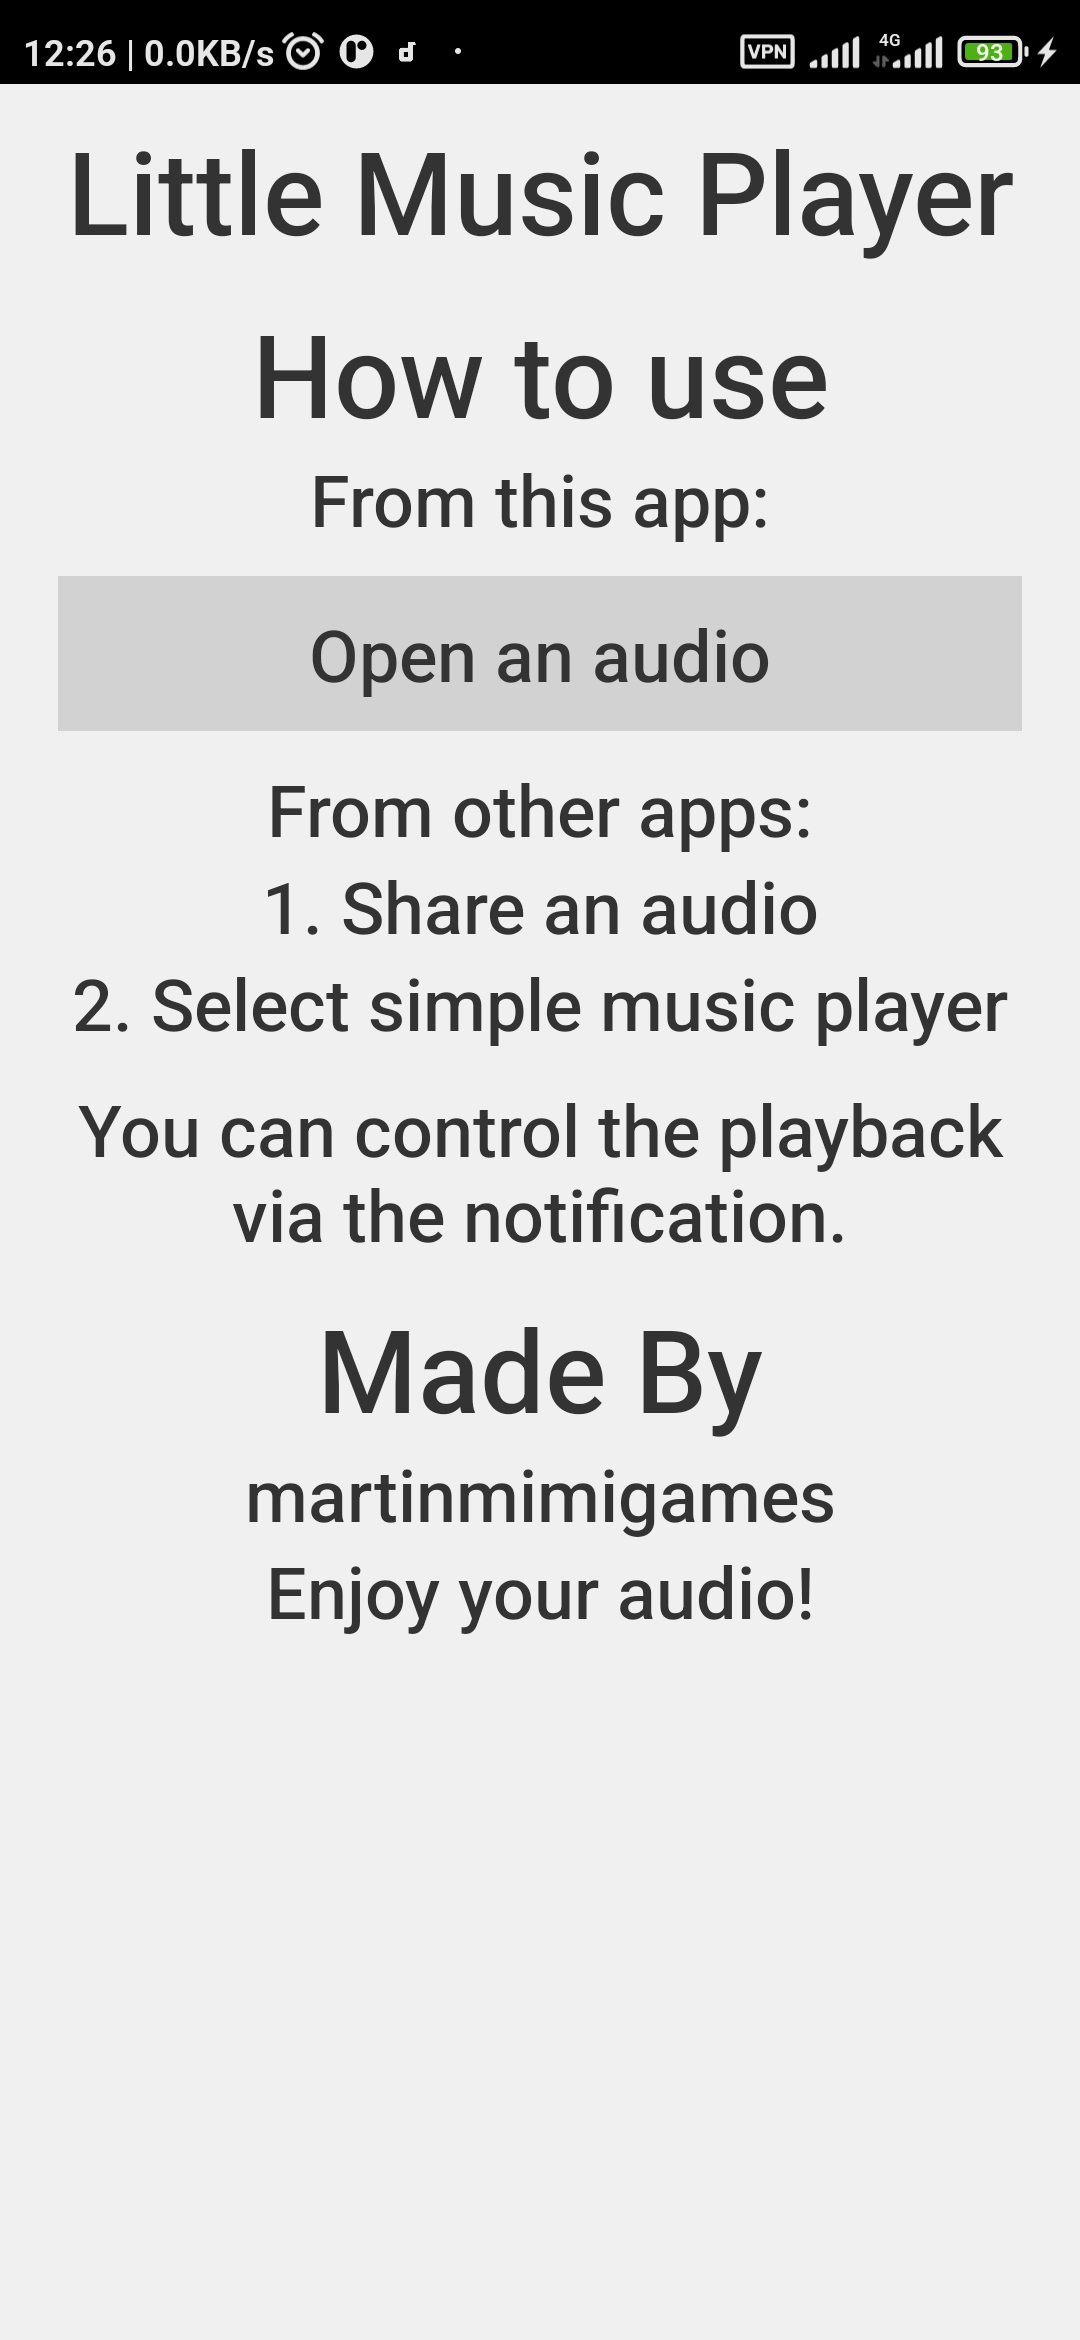
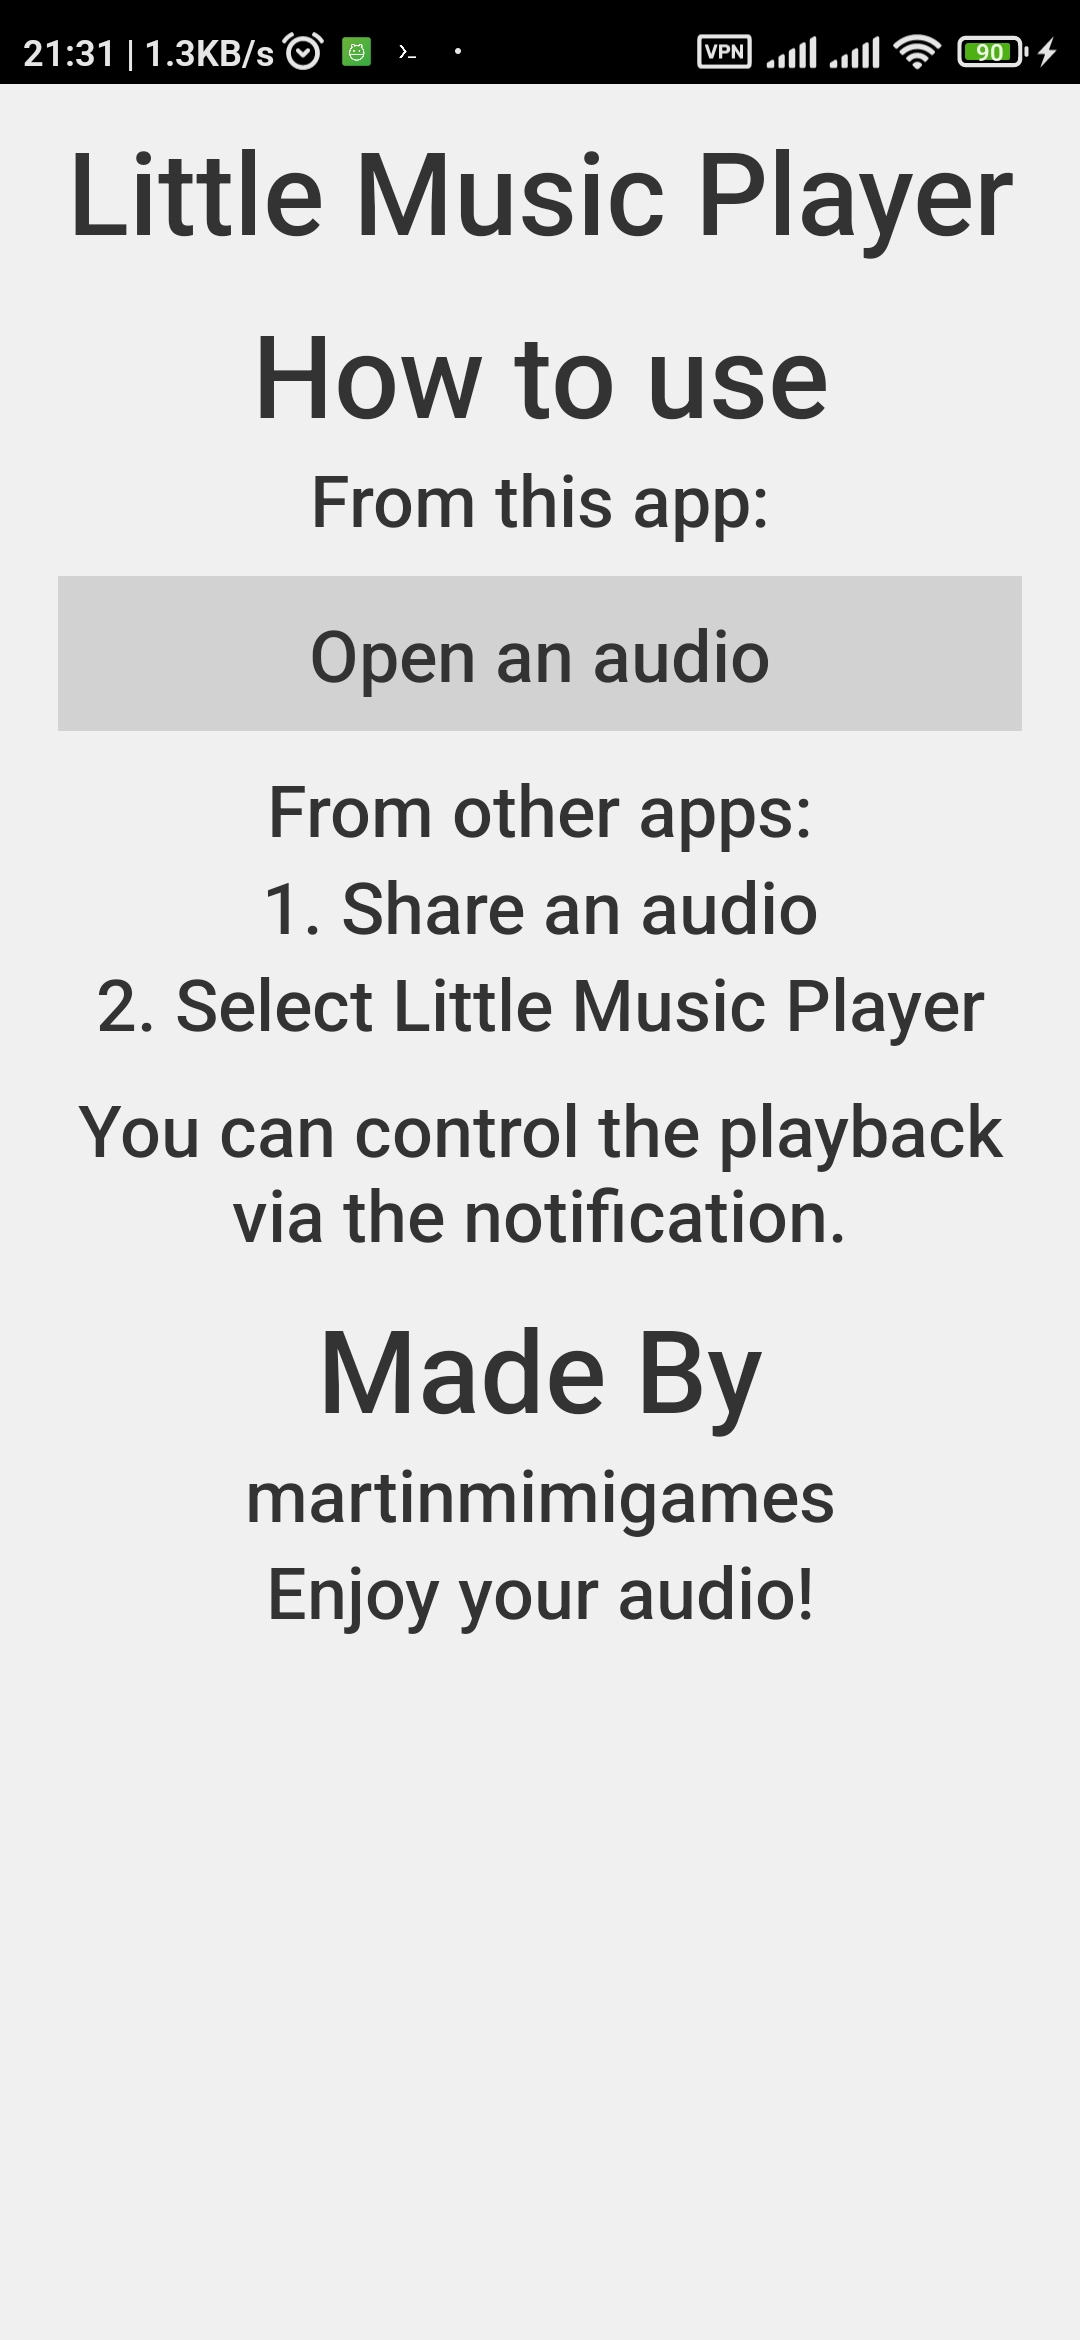
add little music player

diff --git a/projects/tiny-music-player/index.html b/projects/tiny-music-player/index.html
@@ -1,0 +1,77 @@
+<!DOCTYPE html>
+<html lang="en">
+
+<head>
+  <meta charset="UTF-8">
+  <meta name="viewport" content="width=device-width, initial-scale=1.0">
+  <link rel="canonical" href="https://martinmimigames.github.io/projects/tiny-music-player/index.html" />
+  <meta name="description"
+    content="Little Music Player - mini, compatible & plays audio,  a product of martinmimigames.">
+  <link rel="shortcut icon" href="/res/icon/website/tiny-music-player.ico">
+  <link rel="stylesheet" href="/res/css/default.css">
+  <link rel="stylesheet" href="/res/css/img.css">
+  <title>Tiny Music Player - mini, compatible & plays audio</title>
+</head>
+
+<body>
+  <header>
+    <h1>Tiny Music Player</h1>
+  </header>
+
+  <p>
+    <a class="img" href="https://github.com/martinmimigames/tiny-music-player/blob/main/LICENSE.md">
+      <img src="https://img.shields.io/github/license/martinmimigames/tiny-music-player?style=flat-square"
+        alt="Now under GPL-3.0-only License">
+    </a>
+  </p>
+  <p>
+    A mini, simple, yet compatible notification based audio player.
+  </p>
+  <p>
+    Plays audios and videos, like how you expected to.
+  </p>
+  <p>
+    Designed in hope for compatibility with different android versions.
+  </p>
+  <p>
+    For Android 13+, notification permission needs to be granted to work properly.
+  </p>
+  <p>
+    A tinier branch of <a href="/projects/little-music-player/index.html">Little Music Player</a>, with only basic functionality to reduce size.
+  </p>
+  <p>
+    Source code at <a href="https://github.com/martinmimigames/tiny-music-player">Github</a>.
+  </p>
+  <p>
+    Newest version: v1.0 (Updated on 10/12/2022)
+  </p>
+  <p>
+    Update Log:
+  </p>
+  <p>
+    - 1st release
+  </p>
+  <p>
+    You can download from the following ways:
+  </p>
+  <p>
+  <p>
+    <a href="https://github.com/martinmimigames/tiny-music-player/releases" rel="nofollow">Get it on Github</a>
+  </p>
+  <p>
+    <a href="downloads/tiny music player(1.0).apk" rel="nofollow">Get it here (apk v1.0)</a>
+  </p>
+  <p>
+    <a href="/projects/mggames-downloader/index.html">Get it on MGGames downloader</a>
+  </p>
+  <p>
+    Sorry if the above methods don't suit you.
+  </p>
+
+  <footer>
+    <p><a href="/index.html">Back to Homepage</a></p>
+    <p>Copyright &#169; 2022 martinmimigames</p>
+  </footer>
+</body>
+
+</html>

diff --git a/projects/little-music-player/index.html b/projects/little-music-player/index.html
@@ -37,6 +37,13 @@
     Previously known as simple music player.
   </p>
   <p>
+    We also have other branches, for people with different needs.
+  </p>
+  <p>
+    - <a href="/projects/tiny-music-player/index.html">Tiny Music Player</a><br>
+    For the smallest apk, but with the least functionality.
+  </p>
+  <p>
     Source code at <a href="https://github.com/martinmimigames/little-music-player">Github</a>.
   </p>
   <picture>
@@ -44,7 +51,7 @@
     <img src="sample-light.jpg" alt="sample picture" />
   </picture>
   <p>
-    Newest version: v2.8 (Updated on 04/12/2022)
+    Newest version: v2.9 (Updated on 04/12/2022)
   </p>
   <p>
     Update Log:
@@ -53,10 +60,10 @@
     - updated description
   </p>
   <p>
-    - fixed notifications making alert sound (at least on emulators)
+    - reverted icon
   </p>
   <p>
-    - fixed notifications not working on android 13 (sdk 33)
+    - fixed incorrect instructions
   </p>
   <p>
     - new icons
@@ -73,7 +80,7 @@
     <a href="https://github.com/martinmimigames/little-music-player/releases" rel="nofollow">Get it on Github</a>
   </p>
   <p>
-    <a href="downloads/little music player(2.8).apk" rel="nofollow">Get it here (apk v2.8)</a>
+    <a href="downloads/little music player(2.9).apk" rel="nofollow">Get it here (apk v2.9)</a>
   </p>
   <p>
     <a href="/projects/mggames-downloader/index.html">Get it on MGGames downloader</a>

diff --git a/projects/android.html b/projects/android.html
@@ -35,8 +35,12 @@
         time wasting button
       </a>
     </p>
-    <p
-      ><a href = "/projects/android-car-4/index.html">
+    <p>
+      <a href="/projects/tiny-music-player/index.html">
+        tiny music player
+      </a>
+    </p>
+    <p><a href = "/projects/android-car-4/index.html">
         android car 4 (beta)
       </a>*
     </p>

diff --git a/projects/full.html b/projects/full.html
@@ -70,6 +70,11 @@
         time wasting button
       </a>
     </p>
+    <p>
+      <a href="/projects/tiny-music-player/index.html">
+        tiny music player
+      </a>
+    </p>
     <p>~</p>
     <p>* not available for download</p>
     <p>(beta): not a complete and stable project yet</p>
